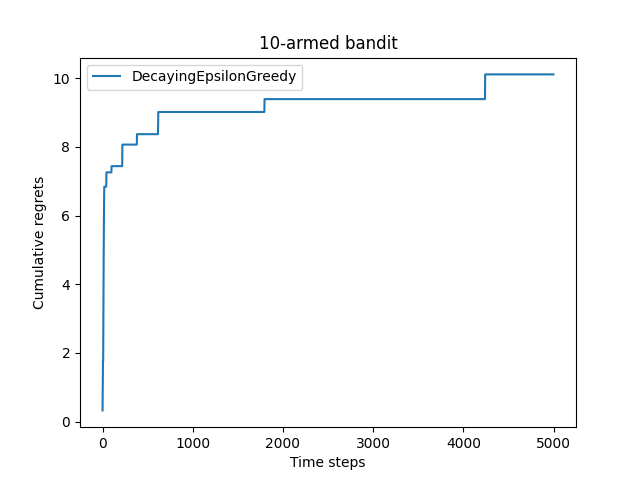
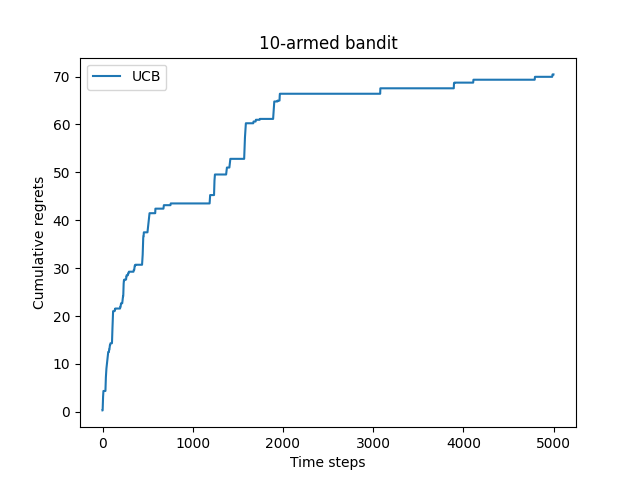
增加UCB算法

diff --git a/MultiArmedBandit/bernoullibandit.py b/MultiArmedBandit/bernoullibandit.py
@@ -62,7 +62,7 @@ class DecayingEpsilonGreedy(Solver):
 
     def run_one_step(self):
         self.total_count += 1
-        if np.random.rand() < 1/ self.total_count:
+        if np.random.rand() < 1 / self.total_count:
             k = np.random.randint(0, self.bandit.K)
         else:
             k = np.argmax(self.estimates)
@@ -85,6 +85,24 @@ def plot_results(solvers, solver_names):
     plt.savefig('bernoulli_bandit.png')
     #plt.show()    
 
+class UCB(Solver):
+    def __init__(self, bandit, coef, init_prob=1.0):
+        super(UCB, self).__init__(bandit)
+        self.coef = coef
+        self.estimates = np.array([init_prob] * self.bandit.K)
+        self.total_count = 0
+
+    def run_one_step(self):
+        self.total_count += 1
+        ucb = self.estimates+ self.coef * np.sqrt(np.log(self.total_count)/(2*(self.counts+1)))
+        k = np.argmax(ucb)  # 选择未尝试过的动作
+        print("estimates ",np.argmax(self.estimates))
+        print("ucb ",k)
+       
+        r = self.bandit.step(k)  # 得到本次动作的奖励
+        self.estimates[k] += 1. / (self.counts[k] + 1) * (r - self.estimates[k])
+        return k
+
 
 np.random.seed(1)
 K = 10
@@ -96,14 +114,14 @@ epsilon_greedy_solver.run(5000)
 print('epsilon-贪婪算法的累积懊悔为：', epsilon_greedy_solver.regret)
 plot_results([epsilon_greedy_solver], ["EpsilonGreedy"])
 '''
-
+'''
 np.random.seed(1)
 decaying_epsilon_greedy_solver = DecayingEpsilonGreedy(bandit_10_arm)
 decaying_epsilon_greedy_solver.run(5000)
 print('epsilon值衰减的贪婪算法的累积懊悔为：', decaying_epsilon_greedy_solver.regret)
 plot_results([decaying_epsilon_greedy_solver], ["DecayingEpsilonGreedy"])
 
-'''
+
 epsilons = [1e-4, 0.01, 0.1, 0.25, 0.5]
 epsilon_greedy_solver_list = [
     EpsilonGreedy(bandit_10_arm, epsilon=e) for e in epsilons
@@ -114,3 +132,10 @@ for solver in epsilon_greedy_solver_list:
 
 plot_results(epsilon_greedy_solver_list, epsilon_greedy_solver_names)
 '''
+
+np.random.seed(1)
+coef = 1  # 控制不确定性比重的系数
+UCB_solver = UCB(bandit_10_arm, coef)
+UCB_solver.run(5000)
+print('上置信界算法的累积懊悔为：', UCB_solver.regret)
+plot_results([UCB_solver], ["UCB"])
